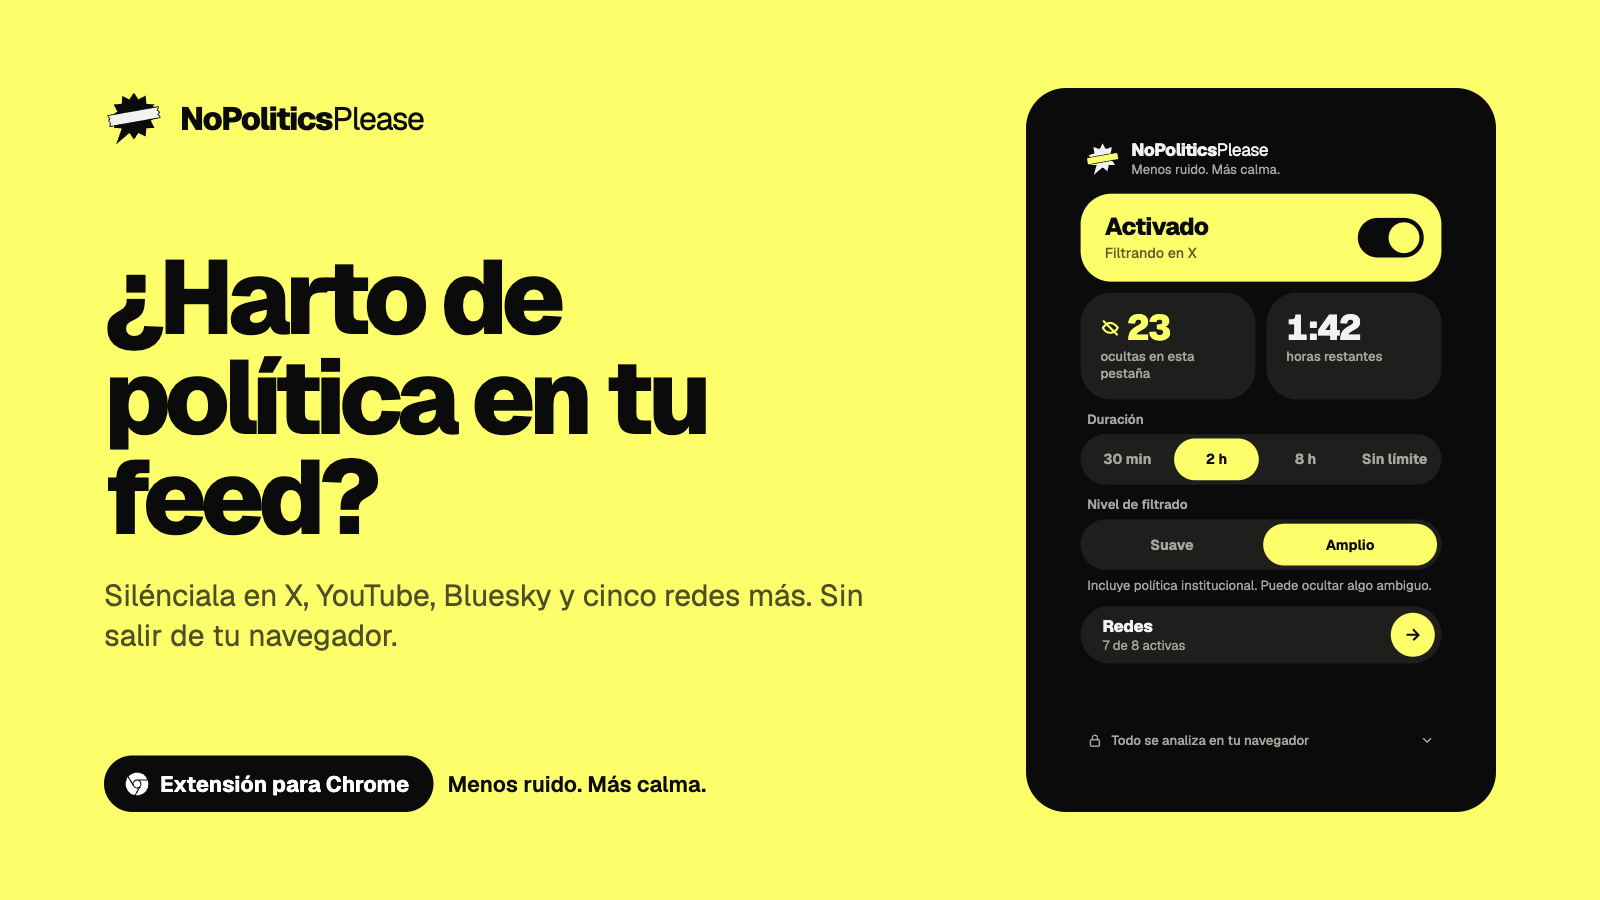
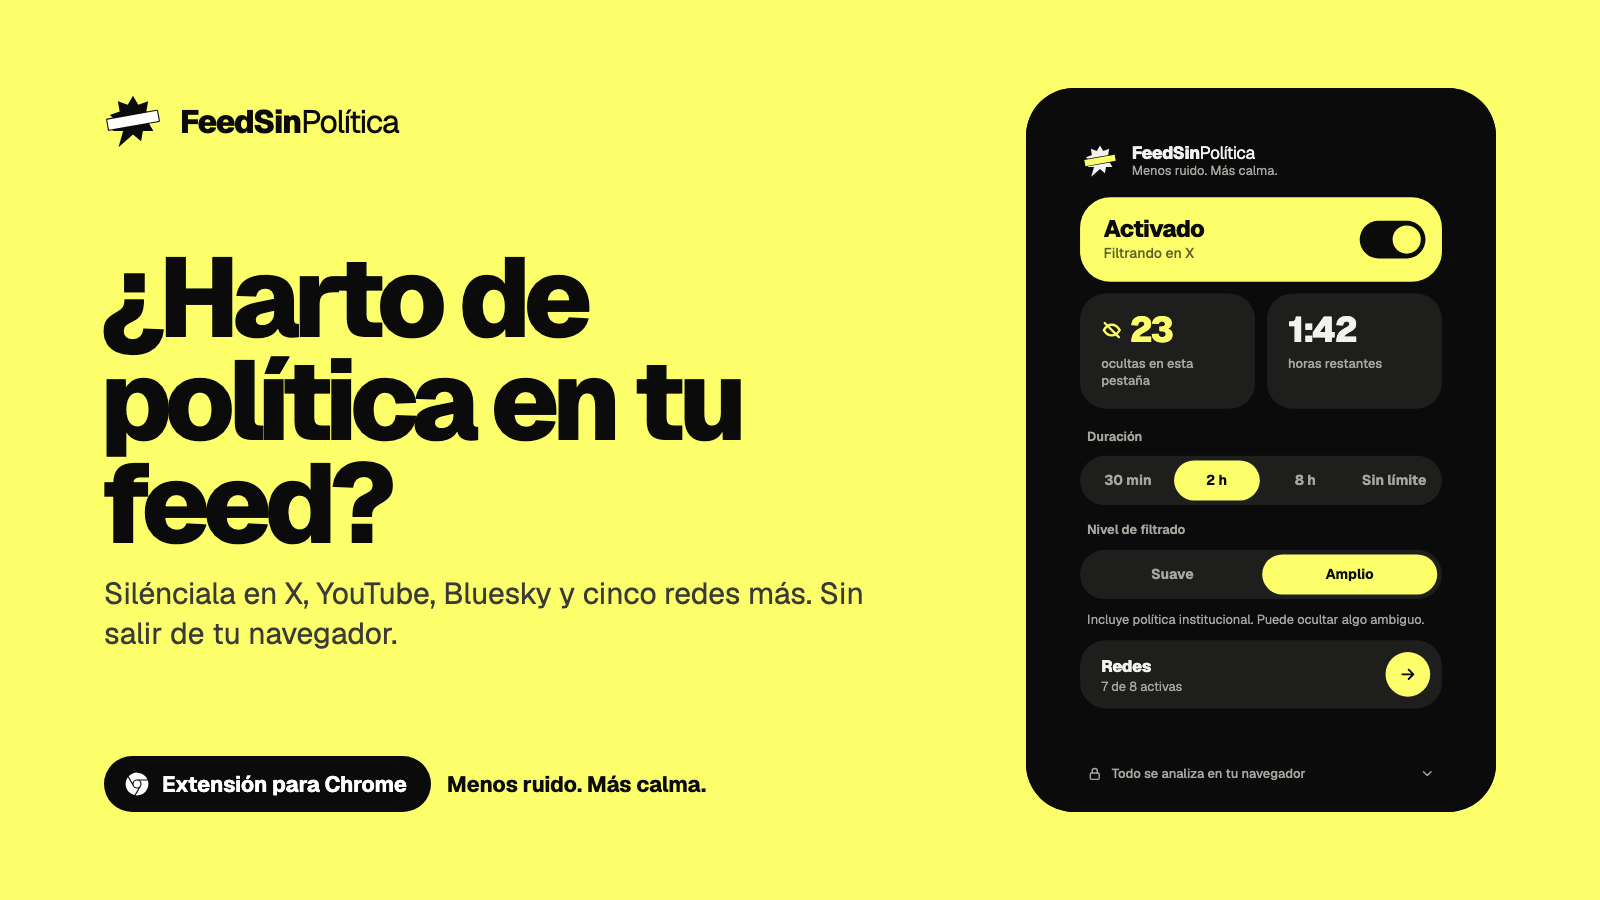
Renombra la extensión a FeedSinPolítica y regenera las imágenes

diff --git a/index.html b/index.html
@@ -3,7 +3,7 @@
 <head>
 <meta charset="utf-8">
 <meta name="viewport" content="width=device-width, initial-scale=1">
-<title>NoPoliticsPlease · Silencia la política en tus redes</title>
+<title>FeedSinPolítica · Silencia la política en tus redes</title>
 <meta name="description" content="Extensión de Chrome que pliega las publicaciones políticas de tu feed en X, YouTube, Bluesky y más. Todo se analiza en tu navegador.">
 <link rel="icon" href="privacy/icon.png">
 
@@ -53,7 +53,7 @@ a:focus-visible,button:focus-visible{outline:3px solid #0B0B0B;outline-offset:3p
 <path d="M32.0 4.0 37.8 14.0 48.7 10.1 46.7 21.5 57.6 25.5 48.7 33.0 54.5 43.0 42.9 43.0 40.9 54.4 32.0 47.0 16.0 61.0 21.1 43.0 9.5 43.0 15.3 33.0 6.4 25.5 17.3 21.5 15.3 10.1 26.2 14.0Z" fill="#0B0B0B"></path>
 <path d="M3.5 30.5 58.5 20.8 60.5 32 5.5 41.7Z" fill="#FCFE6A" stroke="#F2F2F0" stroke-width="2.4" stroke-linejoin="round" paint-order="stroke"></path>
 </svg>
-<span style="font-size: 18px; letter-spacing: -0.04em; font-weight: 800">NoPolitics<span style="font-weight: 400">Please</span></span>
+<span style="font-size: 18px; letter-spacing: -0.04em; font-weight: 800">FeedSin<span style="font-weight: 400">Política</span></span>
 </a>
 <div style="display: flex; align-items: center; gap: 20px; flex-wrap: wrap">
 <a href="#como-funciona" style="font-size: 15px; font-weight: 600; text-decoration: none">Cómo funciona</a>
@@ -68,7 +68,7 @@ a:focus-visible,button:focus-visible{outline:3px solid #0B0B0B;outline-offset:3p
 <div style="flex: 1 1 420px; min-width: 0; display: flex; flex-direction: column; gap: 24px">
 <span style="align-self: flex-start; padding: 6px 14px; border-radius: 999px; background: #0B0B0B; color: #FCFE6A; font-size: 14px; font-weight: 700">Extensión para Chrome</span>
 <h1 style="margin: 0; font-size: clamp(44px, 6vw, 76px); line-height: 0.98; letter-spacing: -0.055em; font-weight: 800">Silencia la política en tus redes.</h1>
-<p style="margin: 0; font-size: 20px; line-height: 1.5; color: #4A4A46; max-width: 520px">NoPoliticsPlease pliega las publicaciones políticas de tu feed en X, YouTube, Bluesky y cinco redes más. El resto sigue igual, y puedes ver cualquier publicación con un toque.</p>
+<p style="margin: 0; font-size: 20px; line-height: 1.5; color: #4A4A46; max-width: 520px">FeedSinPolítica pliega las publicaciones políticas de tu feed en X, YouTube, Bluesky y cinco redes más. El resto sigue igual, y puedes ver cualquier publicación con un toque.</p>
 <div style="display: flex; flex-wrap: wrap; gap: 12px; align-items: center">
 <a href="#instalar" class="cta" style="display: flex; align-items: center; gap: 10px; min-height: 56px; padding: 0 26px; border-radius: 999px; background: #FCFE6A; color: #0B0B0B; font-size: 17px; font-weight: 800; text-decoration: none; box-shadow: inset 0 0 0 2px #0B0B0B">
 <svg width="22" height="22" viewBox="0 0 512 512" fill="#0B0B0B" aria-hidden="true"><path d="M188.8,255.93A67.2,67.2,0,1,0,256,188.75,67.38,67.38,0,0,0,188.8,255.93Z"></path><path d="M476.75,217.79s0,0,0,.05a206.63,206.63,0,0,0-7-28.84h-.11a202.16,202.16,0,0,1,7.07,29h0a203.5,203.5,0,0,0-7.07-29H314.24c19.05,17,31.36,40.17,31.36,67.05a86.55,86.55,0,0,1-12.31,44.73L231,478.45a2.44,2.44,0,0,1,0,.27V479h0v-.26A224,224,0,0,0,256,480c6.84,0,13.61-.39,20.3-1a222.91,222.91,0,0,0,29.78-4.74C405.68,451.52,480,362.4,480,255.94A225.25,225.25,0,0,0,476.75,217.79Z"></path><path d="M256,345.5c-33.6,0-61.6-17.91-77.29-44.79L76,123.05l-.14-.24A224,224,0,0,0,207.4,474.55l0-.05,77.69-134.6A84.13,84.13,0,0,1,256,345.5Z"></path><path d="M91.29,104.57l77.35,133.25A89.19,89.19,0,0,1,256,166H461.17a246.51,246.51,0,0,0-25.78-43.94l.12.08A245.26,245.26,0,0,1,461.17,166h.17a245.91,245.91,0,0,0-25.66-44,2.63,2.63,0,0,1-.35-.26A223.93,223.93,0,0,0,91.14,104.34l.14.24Z"></path></svg>
@@ -364,7 +364,7 @@ Añadir a Chrome
 
 <footer style="background: #0B0B0B; color: #A6A6A0">
 <div style="max-width: 1120px; margin: 0 auto; padding: 28px 24px; display: flex; flex-wrap: wrap; justify-content: space-between; gap: 12px; font-size: 14px">
-<span><strong style="color: #F2F2F0; font-weight: 800">NoPolitics</strong><span style="color: #F2F2F0">Please</span> · Menos ruido. Más calma.</span>
+<span><strong style="color: #F2F2F0; font-weight: 800">FeedSin</strong><span style="color: #F2F2F0">Política</span> · Menos ruido. Más calma.</span>
 <span><a href="privacy/" style="color: #F2F2F0">Privacidad</a> · <a href="https://github.com/victorcouce/nopoliticsplease" style="color: #F2F2F0">GitHub</a> · Chrome es una marca de Google LLC.</span>
 </div>
 </footer>

diff --git a/privacy/index.html b/privacy/index.html
@@ -3,8 +3,8 @@
 <head>
 <meta charset="utf-8">
 <meta name="viewport" content="width=device-width, initial-scale=1">
-<title>Política de privacidad · NoPoliticsPlease</title>
-<meta name="description" content="Política de privacidad de NoPoliticsPlease: todo se analiza en tu navegador, sin servidor, sin cuentas y sin analítica.">
+<title>Política de privacidad · FeedSinPolítica</title>
+<meta name="description" content="Política de privacidad de FeedSinPolítica: todo se analiza en tu navegador, sin servidor, sin cuentas y sin analítica.">
 <link rel="icon" href="icon.png">
 <link rel="preconnect" href="https://fonts.googleapis.com">
 <link rel="preconnect" href="https://fonts.gstatic.com" crossorigin>
@@ -50,11 +50,11 @@ footer{margin-top:28px;text-align:center;font-size:13px;color:var(--muted)}
 </head>
 <body>
 <div class="wrap">
-  <a class="brand" href="https://github.com/victorcouce/nopoliticsplease"><img src="icon.png" alt=""><b>NoPolitics<span>Please</span></b></a>
+  <a class="brand" href="https://github.com/victorcouce/nopoliticsplease"><img src="icon.png" alt=""><b>FeedSin<span>Política</span></b></a>
 
   <header class="hero">
     <h1>Política de privacidad</h1>
-    <p>NoPoliticsPlease oculta, de forma voluntaria y reversible, publicaciones de contenido político mientras navegas. <strong>Todo el análisis se hace dentro de tu navegador.</strong> La extensión no envía a ningún servidor el texto de las publicaciones ni ningún otro dato, no tiene cuentas de usuario y no incluye analítica ni publicidad.</p>
+    <p>FeedSinPolítica oculta, de forma voluntaria y reversible, publicaciones de contenido político mientras navegas. <strong>Todo el análisis se hace dentro de tu navegador.</strong> La extensión no envía a ningún servidor el texto de las publicaciones ni ningún otro dato, no tiene cuentas de usuario y no incluye analítica ni publicidad.</p>
     <span class="pill">Última actualización: 11 de octubre de 2026</span>
   </header>
 
@@ -113,7 +113,7 @@ footer{margin-top:28px;text-align:center;font-size:13px;color:var(--muted)}
 
   <section>
     <h2><i>4</i>Qué información no se recopila</h2>
-    <p>NoPoliticsPlease <strong>no</strong> recopila, almacena ni transmite:</p>
+    <p>FeedSinPolítica <strong>no</strong> recopila, almacena ni transmite:</p>
     <ul class="no">
       <li>el contenido de las publicaciones ni su texto;</li>
       <li>tu historial de navegación ni las direcciones que visitas;</li>
@@ -168,7 +168,7 @@ footer{margin-top:28px;text-align:center;font-size:13px;color:var(--muted)}
     <p>Para cualquier pregunta sobre esta política o sobre la extensión: <a href="mailto:victor.couce@gmail.com">victor.couce@gmail.com</a></p>
   </section>
 
-  <footer>NoPoliticsPlease · Menos ruido. Más calma.</footer>
+  <footer>FeedSinPolítica · Menos ruido. Más calma.</footer>
 </div>
 </body>
 </html>

diff --git a/src/core/content/controller.ts b/src/core/content/controller.ts
@@ -215,7 +215,7 @@ export class ContentController {
     card.className = 'modopaz-card';
     card.dataset.theme = detectTheme(this.doc);
     card.setAttribute('role', 'group');
-    card.setAttribute('aria-label', 'NoPoliticsPlease');
+    card.setAttribute('aria-label', 'FeedSinPolítica');
     (card as any)._reason = result.categories.map((c) => LABELS[c]).join(', ');
     this.renderCard(card, post, st);
     return card;

diff --git a/wxt.config.ts b/wxt.config.ts
@@ -4,7 +4,7 @@ import { ALL_MATCHES } from './src/platforms/registry';
 export default defineConfig({
   modules: ['@wxt-dev/module-react'],
   manifest: {
-    name: 'NoPoliticsPlease',
+    name: 'FeedSinPolítica',
     description: 'Oculta publicaciones políticas en redes sociales, de forma local y reversible. Menos ruido. Más calma.',
     permissions: ['storage', 'alarms'],
     host_permissions: ALL_MATCHES,

diff --git a/entrypoints/popup/App.tsx b/entrypoints/popup/App.tsx
@@ -183,7 +183,7 @@ export function App() {
       <header className="brand">
         <Logo size={32} off={!active} />
         <h1>
-          NoPolitics<span>Please</span>
+          FeedSin<span>Política</span>
         </h1>
         <span className="tag">Menos ruido. Más calma.</span>
       </header>

diff --git a/entrypoints/popup/index.html b/entrypoints/popup/index.html
@@ -3,7 +3,7 @@
   <head>
     <meta charset="UTF-8" />
     <meta name="viewport" content="width=device-width, initial-scale=1.0" />
-    <title>NoPoliticsPlease</title>
+    <title>FeedSinPolítica</title>
   </head>
   <body>
     <div id="root"></div>

diff --git a/docs/store-listing.md b/docs/store-listing.md
@@ -1,7 +1,7 @@
-# Ficha de Chrome Web Store: NoPoliticsPlease
+# Ficha de Chrome Web Store: FeedSinPolítica
 
 ## Nombre
-NoPoliticsPlease
+FeedSinPolítica
 
 ## Resumen (máx. 132 caracteres)
 Oculta publicaciones políticas de tu feed, de forma local y reversible. Sin cuentas ni servidores. Menos ruido, más calma.
@@ -14,7 +14,7 @@ Español
 
 ## Descripción detallada
 
-¿Harto de política en tu feed? NoPoliticsPlease oculta las publicaciones políticas mientras navegas, sin que tengas que dejar de usar tus redes.
+¿Harto de política en tu feed? FeedSinPolítica oculta las publicaciones políticas mientras navegas, sin que tengas que dejar de usar tus redes.
 
 CÓMO FUNCIONA
 Cuando activas el filtro, la extensión analiza el texto visible de cada publicación con un clasificador por reglas incluido en la propia extensión. Las que tratan de política o elecciones se sustituyen por una tarjeta compacta con un botón "Mostrar". Pasa el ratón por la tarjeta para ver con qué ha coincidido.
@@ -37,7 +37,7 @@ No elimina nada de las plataformas. Solo oculta visualmente en tu pantalla. Al d
 LIMITACIONES
 Funciona en ocho redes sociales y de noticias populares; en cualquier otro sitio no se ejecuta. El sistema es automático y puede equivocarse: puede ocultar algo que no es político o dejar pasar algo que sí lo es.
 
-NoPoliticsPlease es independiente y no está afiliada a ninguna plataforma.
+FeedSinPolítica es independiente y no está afiliada a ninguna plataforma.
 
 ## Pestaña Privacy practices
 

diff --git a/PRIVACY.md b/PRIVACY.md
@@ -1,8 +1,8 @@
-# Política de privacidad de NoPoliticsPlease
+# Política de privacidad de FeedSinPolítica
 
 **Última actualización:** 11 de octubre de 2026
 
-NoPoliticsPlease es una extensión de Chrome que oculta, de forma voluntaria y reversible, publicaciones de contenido político mientras navegas por redes sociales. Esta política explica qué hace la extensión con tu información.
+FeedSinPolítica es una extensión de Chrome que oculta, de forma voluntaria y reversible, publicaciones de contenido político mientras navegas por redes sociales. Esta política explica qué hace la extensión con tu información.
 
 **En resumen:** todo el análisis se hace dentro de tu navegador. La extensión no envía a ningún servidor el texto de las publicaciones ni ningún otro dato, no tiene cuentas de usuario y no incluye analítica ni publicidad.
 
@@ -52,7 +52,7 @@ Mientras navegas, la extensión mantiene en memoria, y solo mientras la pestaña
 
 ## 4. Qué información no se recopila
 
-NoPoliticsPlease **no** recopila, almacena ni transmite:
+FeedSinPolítica **no** recopila, almacena ni transmite:
 
 - el contenido de las publicaciones ni su texto;
 - tu historial de navegación ni las direcciones que visitas;

diff --git a/README.md b/README.md
@@ -1,8 +1,8 @@
 <p align="center">
-  <img src="docs/banner.png" alt="NoPoliticsPlease: ¿Harto de política en tu feed? Silénciala en X, YouTube, Bluesky y cinco redes más." width="100%">
+  <img src="docs/banner.png" alt="FeedSinPolítica: ¿Harto de política en tu feed? Silénciala en X, YouTube, Bluesky y cinco redes más." width="100%">
 </p>
 
-# NoPoliticsPlease
+# FeedSinPolítica
 
 Extensión de Chrome que oculta publicaciones políticas en redes sociales, de forma **local y reversible**. Menos ruido. Más calma.
 
